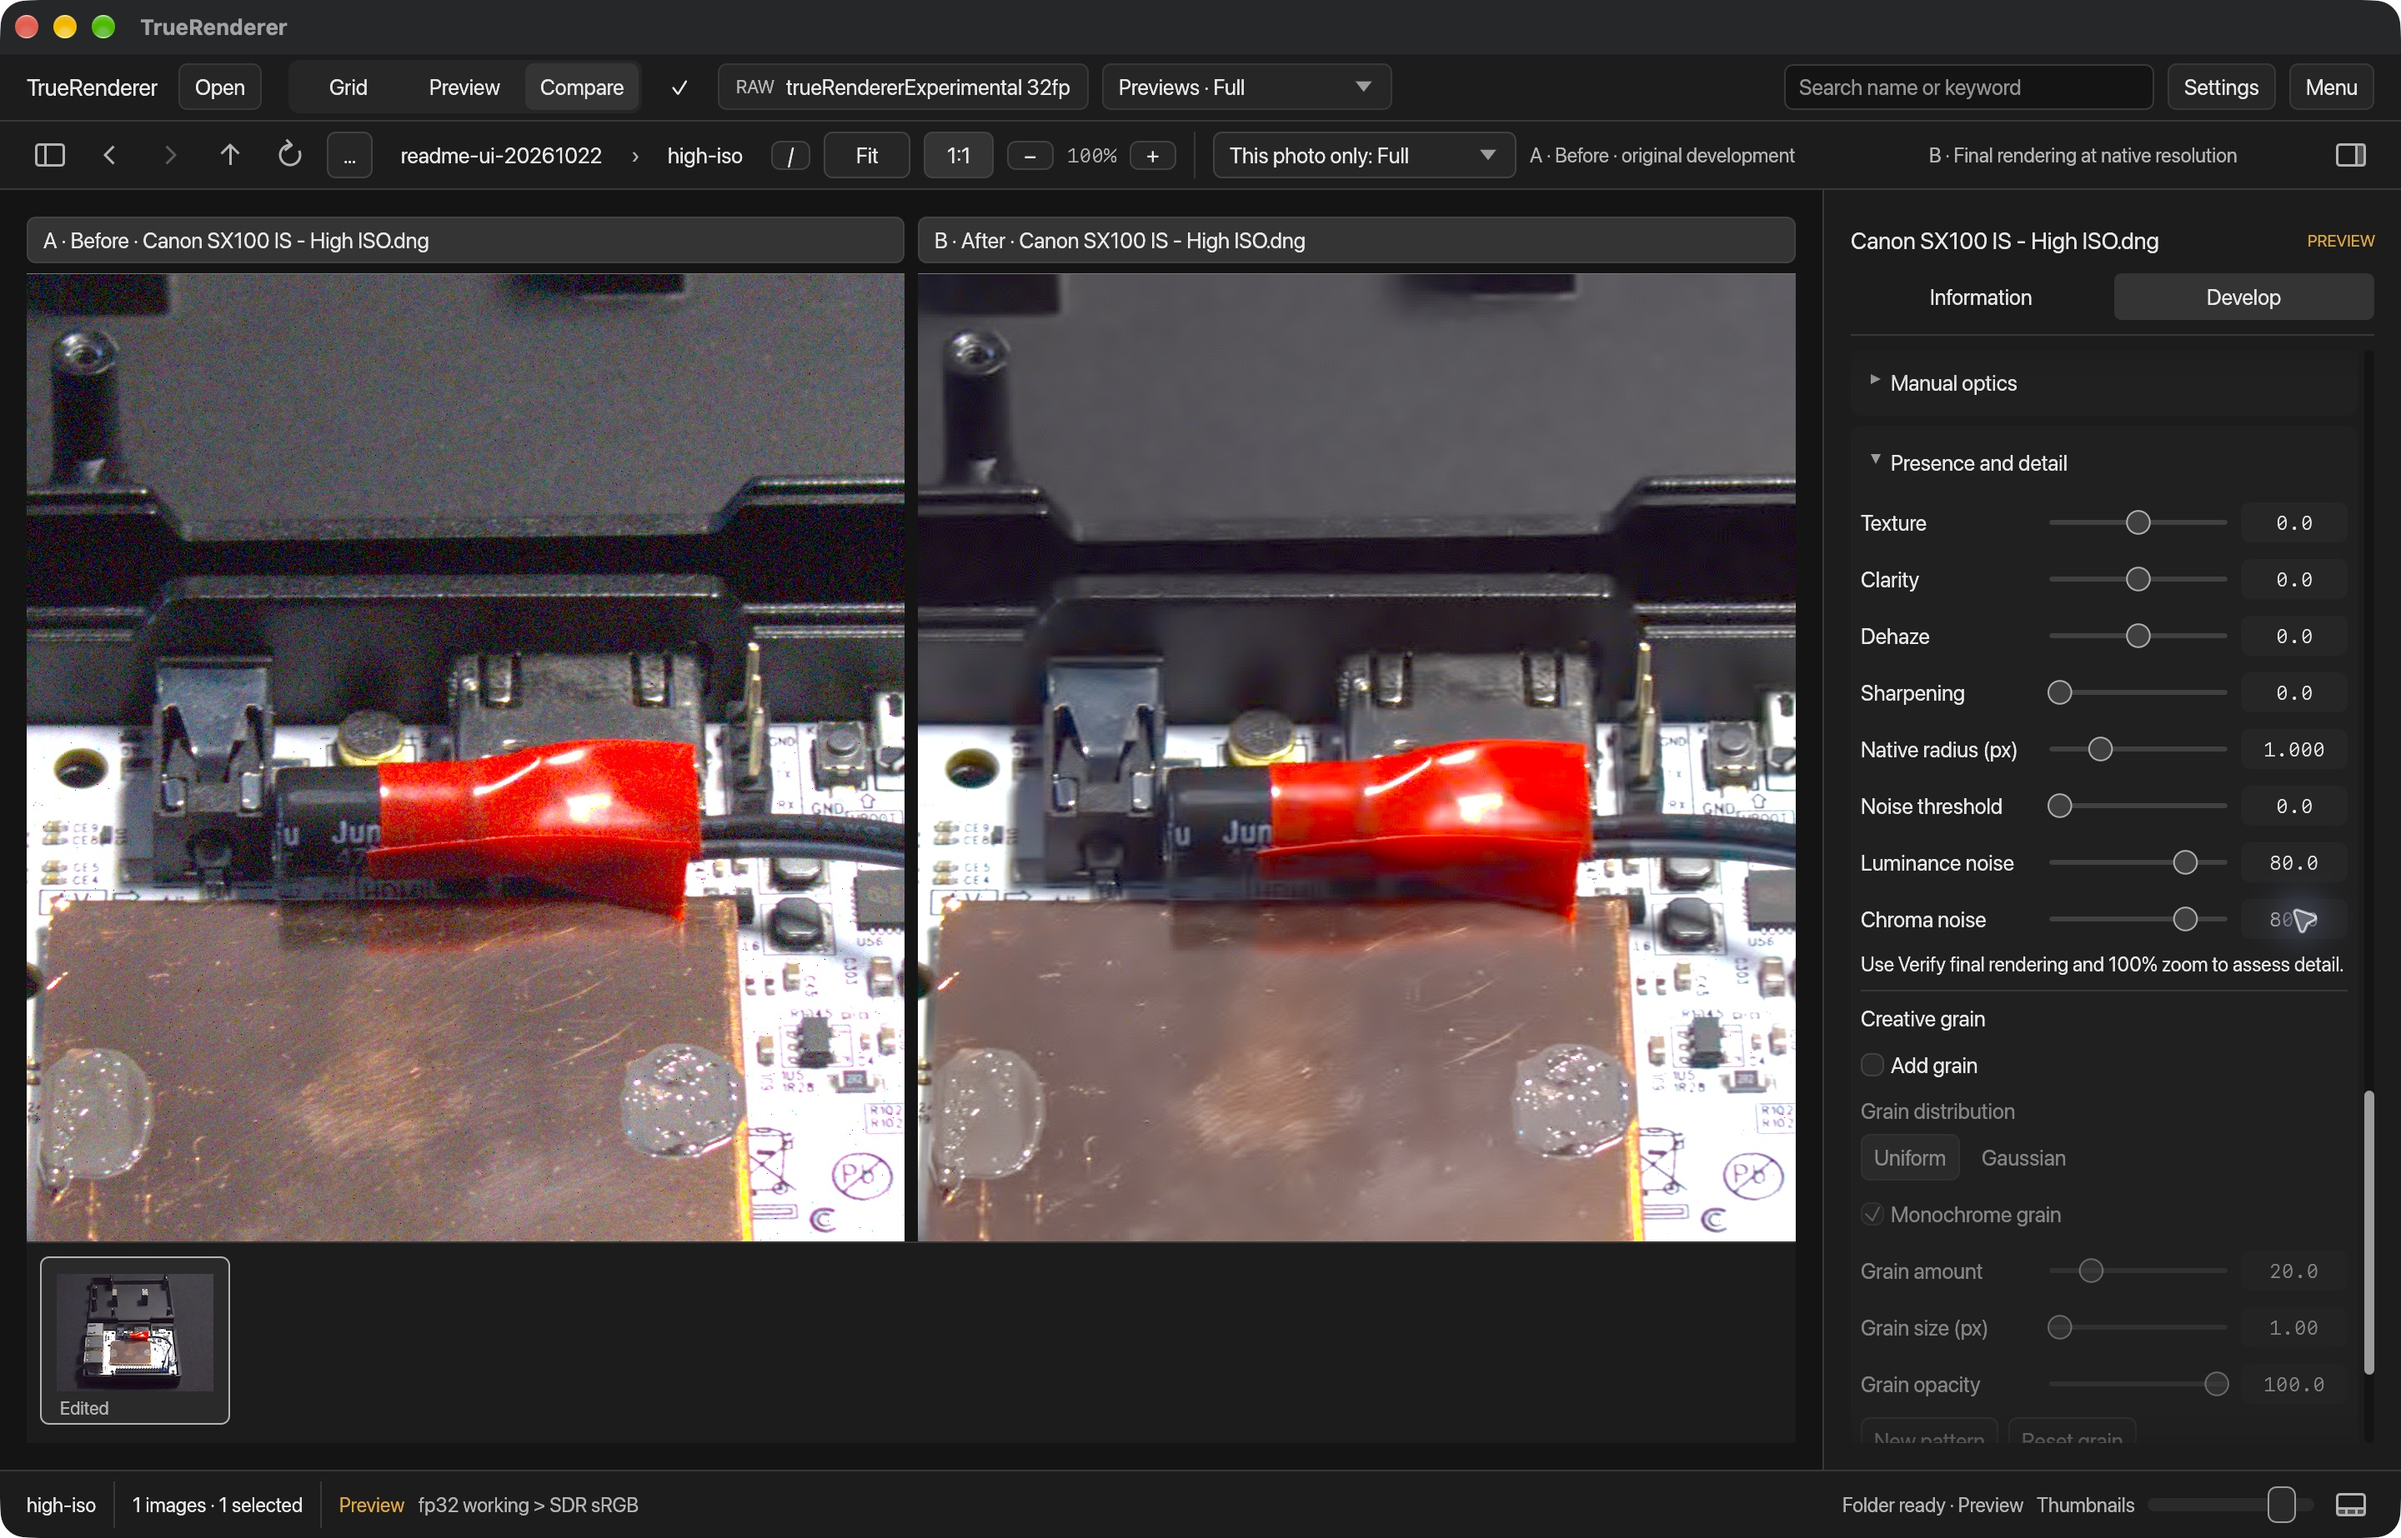
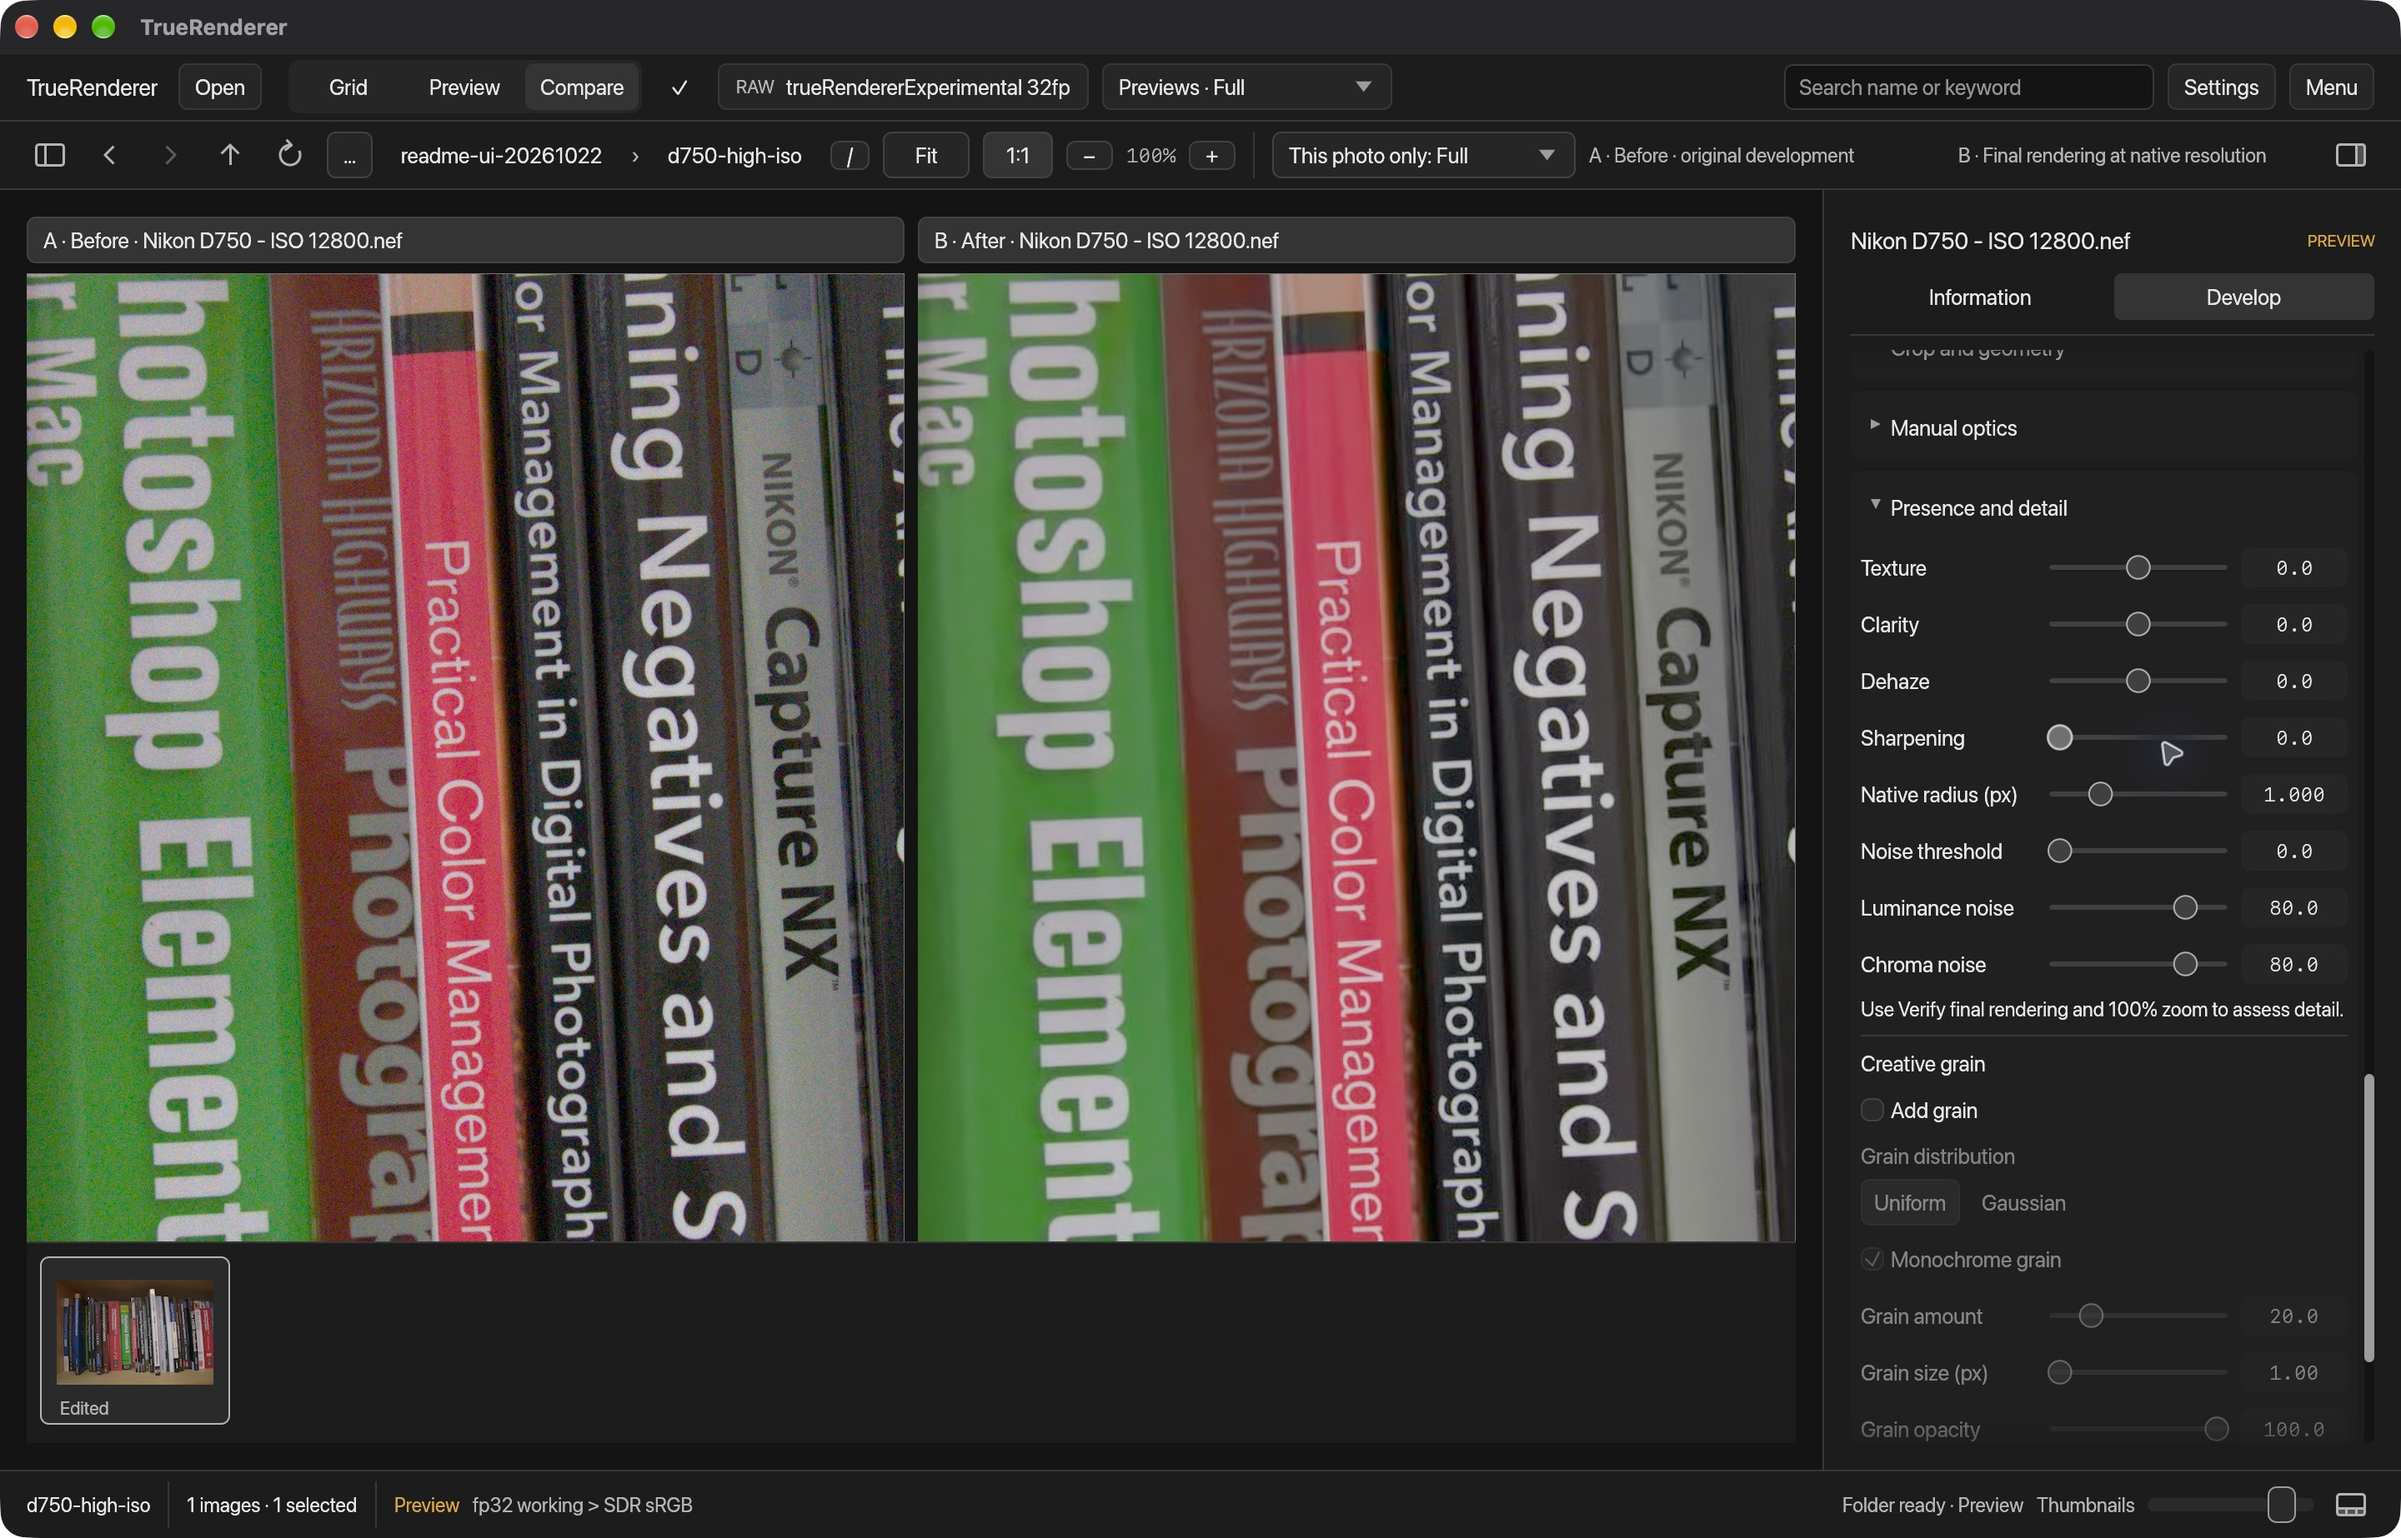
Use existing high-ISO Nikon D750 RAW for denoising screenshot

diff --git a/README.md b/README.md
@@ -34,9 +34,9 @@ The searchable **Tools** catalogue puts adjustments within reach. Each tool has 
 
 For noisy RAW or JPEG photographs, open **Presence and detail** and adjust **Luminance noise** and **Chroma noise** independently. The filter adapts to image brightness and treats both fine colour speckles and larger blotches while protecting stronger edges. **Noise threshold** increases its sensitivity: zero keeps the automatic estimate, and higher values remove more weak variations. The threshold also protects against grain enhancement by Texture, Clarity and Sharpening. Start with moderate amounts and threshold zero, then judge at 100% with **Verify final rendering**; high amounts or thresholds can soften weak detail. Older edits keep their original rendering until you change one of these three controls or choose **Update noise reduction**; Undo restores the previous revision.
 
-![Before and after noise reduction on an ISO 800 Canon PowerShot SX100 IS RAW, viewed at 100% with the denoiser controls visible](reports/readme-ui-2026-10-22/denoise.jpg)
+![Before and after noise reduction on an ISO 12800 Nikon D750 RAW, viewed at 100% with the denoiser controls visible](reports/readme-ui-2026-10-22/denoise.jpg)
 
-**Before/After at 100%:** a real ISO 800 RAW from a Canon PowerShot SX100 IS, with Luminance noise 80, Chroma noise 80 and Noise threshold 0. The right-hand image shows the current filter’s final rendering at native resolution; creative grain is off.
+**Before/After at 100%:** a real ISO 12800 RAW from a Nikon D750, with Luminance noise 80, Chroma noise 80 and Noise threshold 0. The right-hand image shows the current filter’s final rendering at native resolution; creative grain is off.
 
 For a vintage texture, use **Creative grain** in the same panel. Enable **Add grain**, choose **Uniform** or **Gaussian**, then adjust **Grain amount**, **Grain size (px)** and **Grain opacity**. **Monochrome grain** adds neutral grain; turn it off for coloured speckles. **New pattern** changes the arrangement, which is saved with the edit. Disabling the effect keeps its settings. Judge fine grain at 100% with **Verify final rendering**; smaller exports naturally soften it.
 
@@ -158,4 +158,4 @@ Keep `var/library.sqlite` and `var/backups/`: they contain durable library data.
 
 TrueRenderer is proprietary software. See the [license](LICENSE) and [third-party notices](NOTICE.md).
 
-Screenshots show the native macOS app in English. Landscapes are public-domain photographs by the National Park Service, including NPS / David Restivo; the denoising example uses a [CC0 RAW sample from raw.pixls.us](https://raw.pixls.us/). See the [landscape credits](sample-photos/manifest.json) and [screenshot provenance and RAW source](reports/readme-ui-showcase-macos-2026-10-22.json).
+Screenshots show the native macOS app in English. Landscapes are public-domain photographs by the National Park Service, including NPS / David Restivo; the denoising example uses a Nikon D750 ISO 12800 RAW from the existing test corpus (original photographic rights retained). See the [landscape credits](sample-photos/manifest.json) and [screenshot provenance and RAW source](reports/readme-ui-showcase-macos-2026-10-22.json).

diff --git a/STATO.md b/STATO.md
@@ -36,8 +36,8 @@ L'app dispone di viewer/confronto, Esplora/Libreria, cinque motori RAW su macOS 
 ### Schermate README aggiornate e confronto denoiser — 22 ottobre
 
 - [x] Rifatte le sette schermate del README con `dist/TrueRenderer.app` corrente e catalogo separato; lingua inglese, UI 100%, qualità Piena. Conservati i set e i rapporti precedenti.
-- [x] Aggiunta una nuova acquisizione nativa Prima/Dopo al 100% con i controlli visibili: Canon PowerShot SX100 IS, RAW ISO 800, campione pubblico CC0 da raw.pixls.us (voce 3823). Usato `MultiscaleV2` corrente, luminanza 80/cromia 80/soglia 0 e grana creativa disattivata; B indica resa finale alla risoluzione nativa. Lo screenshot del Desktop è stato consultato soltanto come riferimento compositivo.
-- [x] Otto JPEG 2880×1846 salvati come restituiti dall’API di acquisizione, senza ritocco, ridimensionamento o compositing; schermate ispezionate, integrità JPEG, hash del RAW contro il catalogo e collegamenti README verificati. Le quattro fotografie dimostrative originali sono invariate; il binario coincide con quello qualificato per la grana. Nessuna modifica ai sorgenti dell’app.
+- [x] Aggiunta una nuova acquisizione nativa Prima/Dopo al 100% con i controlli visibili: Nikon D750, RAW ISO 12800 già usato nelle campagne del denoiser (`nikon_d750_08.nef`), scelto espressamente dal titolare per questa schermata pubblica; sostituisce il primo esempio Canon. Nessuna licenza CC0 attribuita alla foto D750; diritti fotografici originali conservati. Usato `MultiscaleV2` corrente, luminanza 80/cromia 80/soglia 0 e grana creativa disattivata; B indica resa finale alla risoluzione nativa. Lo screenshot del Desktop è stato consultato soltanto come riferimento compositivo.
+- [x] Otto JPEG 2880×1846 salvati come restituiti dall’API di acquisizione, senza ritocco, ridimensionamento o compositing; schermate ispezionate, integrità JPEG, hash del RAW D750 contro l’originale già usato e collegamenti README verificati. Le quattro fotografie dimostrative originali sono invariate; il binario coincide con quello qualificato per la grana. Nessuna modifica ai sorgenti dell’app.
 - [x] Aggiornati README, crediti e [rapporto di provenienza](reports/readme-ui-showcase-macos-2026-10-22.json). RAW, cataloghi di prova e dati locali restano in `var/readme-ui-20261022/`; per la pubblicazione richiesta sono incluse soltanto le otto schermate e la documentazione. Nessun gate R/SF concluso; fonti anteprime invariate.
 
 ### Grana creativa — consegnata il 22 ottobre
